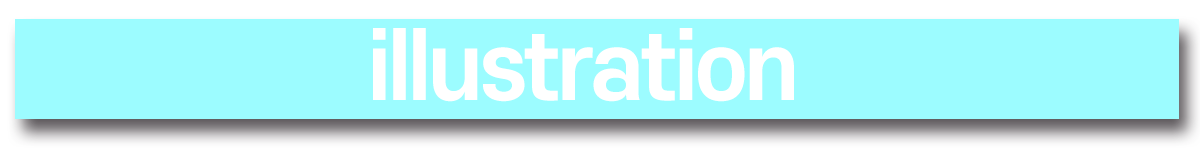
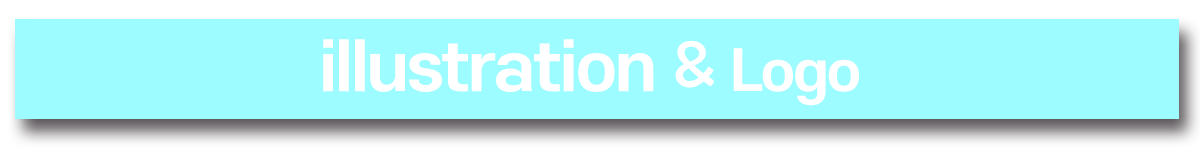
yjjryjry
jjjyjwjy

Changed region(s): [[0.2467, 0.1795, 0.74, 0.6667]]

diff --git a/css/style.css b/css/style.css
@@ -55,7 +55,7 @@ header {
   background-color: #1d3c5b;
 }
 .gnb li {
-  width: 124px;
+  width: 175px;
   font-size: 25px;
   font-family: "Nanum Pen Script", cursive;
   margin-bottom: 70px;
@@ -777,6 +777,7 @@ ul.bxslider {
   height: 60px;
   position: absolute;
   top: calc(50% - 400px);
+  margin-right: 1500px;
   text-indent: -999999px;
   opacity: 60%;
 }
@@ -853,6 +854,7 @@ ul.bxslider {
 .ill_title img {
   width: 50%;
   margin-left: 500px;
+  margin-bottom: 250px;
 }
 .part2_first img {
   width: 40%;
@@ -903,6 +905,8 @@ ul.bxslider {
   bottom: 239px;
   left: 31%;
   width: 94px;
+  font-family: "Nanum Pen Script", cursive;
+  font-size: 26px;
 }
 .plus_button img {
   width: 30%;
@@ -914,6 +918,7 @@ ul.bxslider {
   width: 100%;
 }
 .purple_bear img {
-  width: 100%;
+  width: 90%;
+  margin-left: 100px;
 }
 /* 커피목업 */

diff --git a/index.html b/index.html
@@ -28,7 +28,7 @@
               <a href="#cont1">ABOUT</a>
             </li>
             <li>
-              <a href="#cont2">illustration</a>
+              <a href="#cont2">illustration&Logo</a>
             </li>
             <li>
               <a href="#cont3">Web Design</a>
